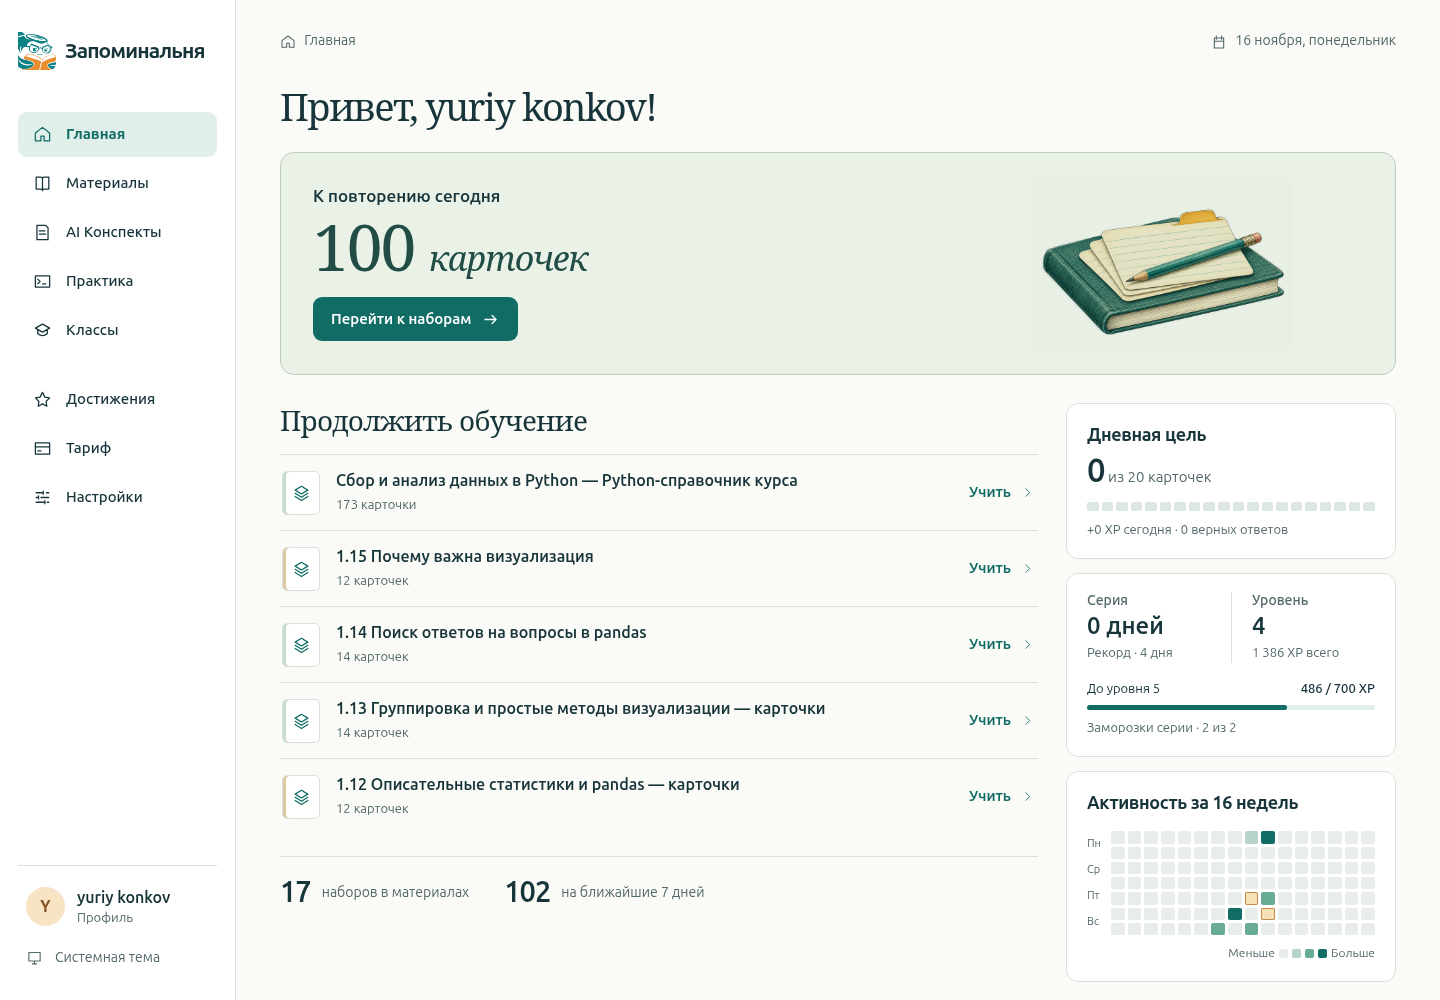
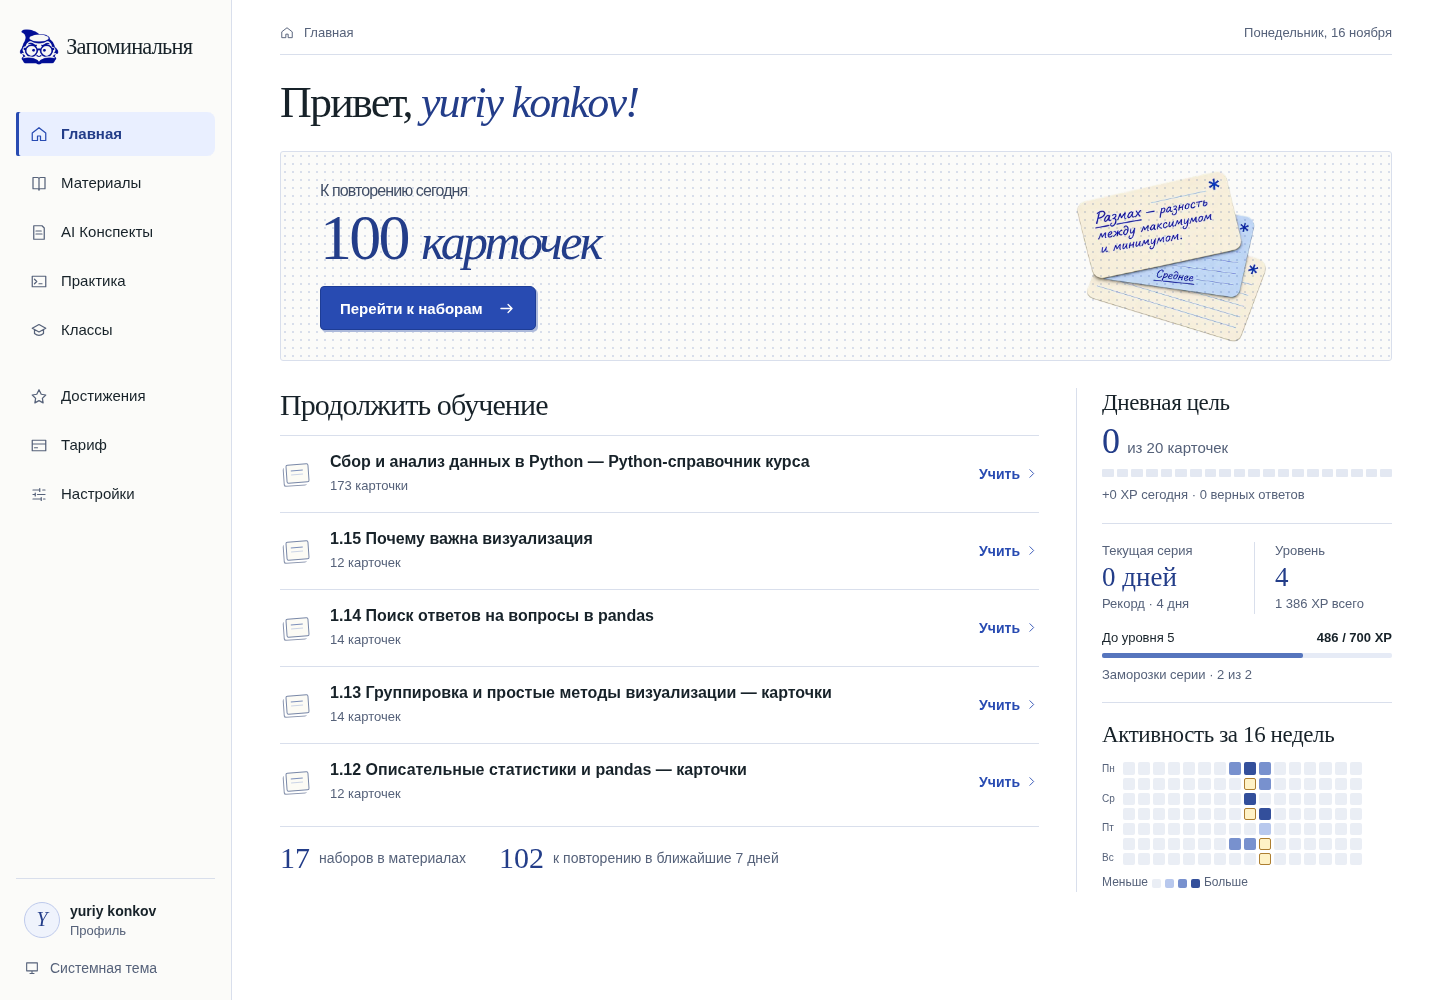
Обновил концепты кабинета в стиле новой главной

diff --git a/TODO.md b/TODO.md
@@ -13,7 +13,7 @@
 
 ## Текущий фокус
 
-- [x] Подготовить [три концепта главной кабинета](docs/app-redesign/home/concepts/) на данных одного экрана при ширине 1440 px.
+- [x] Подготовить [три концепта главной кабинета](docs/app-redesign/home/concepts/) при ширине 1440 px. Обновлённые макеты используют синий знак из шапки «На полях лекции», чернильную палитру и иллюстрации демостраницы.
 - [ ] Выбрать композицию главной кабинета и продумать анимацию выбранного макета.
 - [ ] Сверстать главную кабинета, подключить анимацию и проверить сценарии обучения, навигацию и состояния данных.
 
